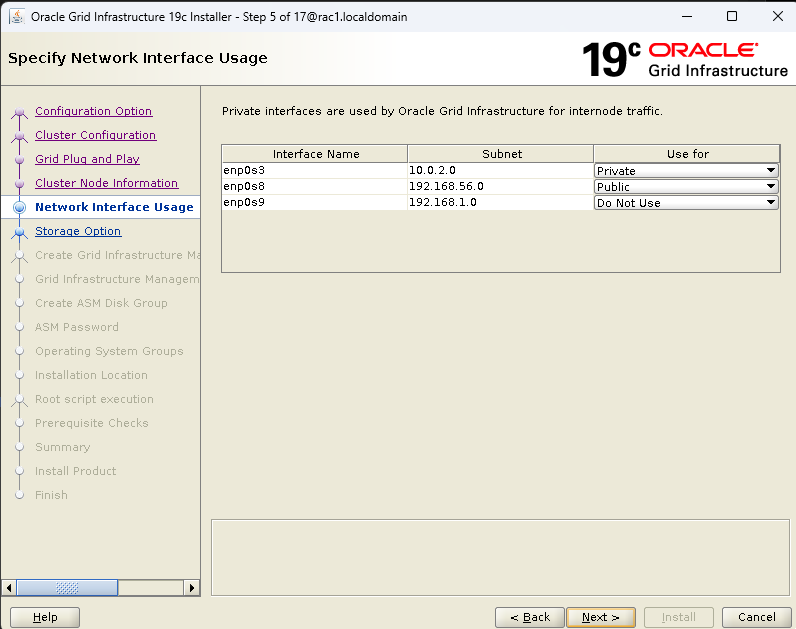
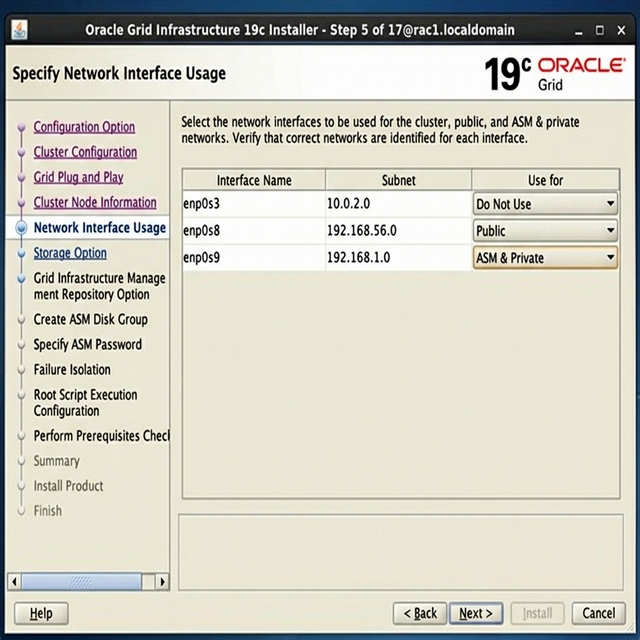
docs: Fix network interface image + add standby Grid installer network config

diff --git a/GUIDA_FASE3_RAC_STANDBY.md b/GUIDA_FASE3_RAC_STANDBY.md
@@ -89,11 +89,34 @@ I 5 nuovi dischi che hai assegnato in VirtualBox sono "vergini". Devi partiziona
    *Se vedi i 5 dischi anche qui, lo storage condiviso dello standby è pronto!*
 
 ### Step 4: Ripeti Installazione Grid e Database (Fase 2)
-Ora che i nodi standby esistono, la rete funziona e i dischi ASMLib sono pronti, devi **ripetere esattamente i passaggi della FASE 2**, ma applicati allo standby:
-1. **Installazione Grid Infrastructure:** Segui la Fase 2 paro paro, ma inserisci come nodi `racstby1` e `racstby2`, e come SCAN name `racstby-scan.localdomain`.
-2. **Installazione Database (Software Only):** Installa i binari Oracle 19c su `racstby1` e `racstby2`. **NON USARE DBCA! NON CREARE IL DATABASE!** Ci serve solo il motore spento.
+Ora che i nodi standby esistono, la rete funziona e i dischi ASMLib sono pronti, devi **ripetere esattamente i passaggi della FASE 2**, ma applicati allo standby.
 
-Fatto questo, hai un cluster RAC vuoto pronto per ricevere i dati dal primario. 
+**1. Installazione Grid Infrastructure:**
+Segui la Fase 2 paro paro, ma con queste differenze per lo standby:
+
+| Parametro Installer | Valore per lo Standby |
+|---|---|
+| Cluster Name | `racstby-cluster` |
+| SCAN Name | `racstby-scan.localdomain` |
+| Nodo 1 | `racstby1.localdomain` / VIP: `racstby1-vip.localdomain` |
+| Nodo 2 | `racstby2.localdomain` / VIP: `racstby2-vip.localdomain` |
+
+> ⚠ **Allo Step 5 (Network Interface Usage)**, usa la stessa configurazione del primario:
+
+| Interface | Subnet | Use for |
+|---|---|---|
+| `enp0s3` | 10.0.2.0 | ❌ **Do Not Use** |
+| `enp0s8` | 192.168.56.0 | ✅ **Public** |
+| `enp0s9` | 192.168.2.0 | ✅ **ASM & Private** |
+
+> 💡 **Nota**: La subnet dell'interconnect sullo standby è `192.168.2.0` (non `192.168.1.0` come sul primario), perché nello Step 2 hai configurato gli IP privati sulla rete `192.168.2.x`.
+
+![Riferimento: Step 5 Network Interfaces](./images/grid_network_interface_usage.png)
+
+**2. Installazione Database (Software Only):**
+Installa i binari Oracle 19c su `racstby1` e `racstby2`. **NON USARE DBCA! NON CREARE IL DATABASE!** Ci serve solo il motore spento.
+
+Fatto questo, hai un cluster RAC vuoto pronto per ricevere i dati dal primario.
 
 ---
 
